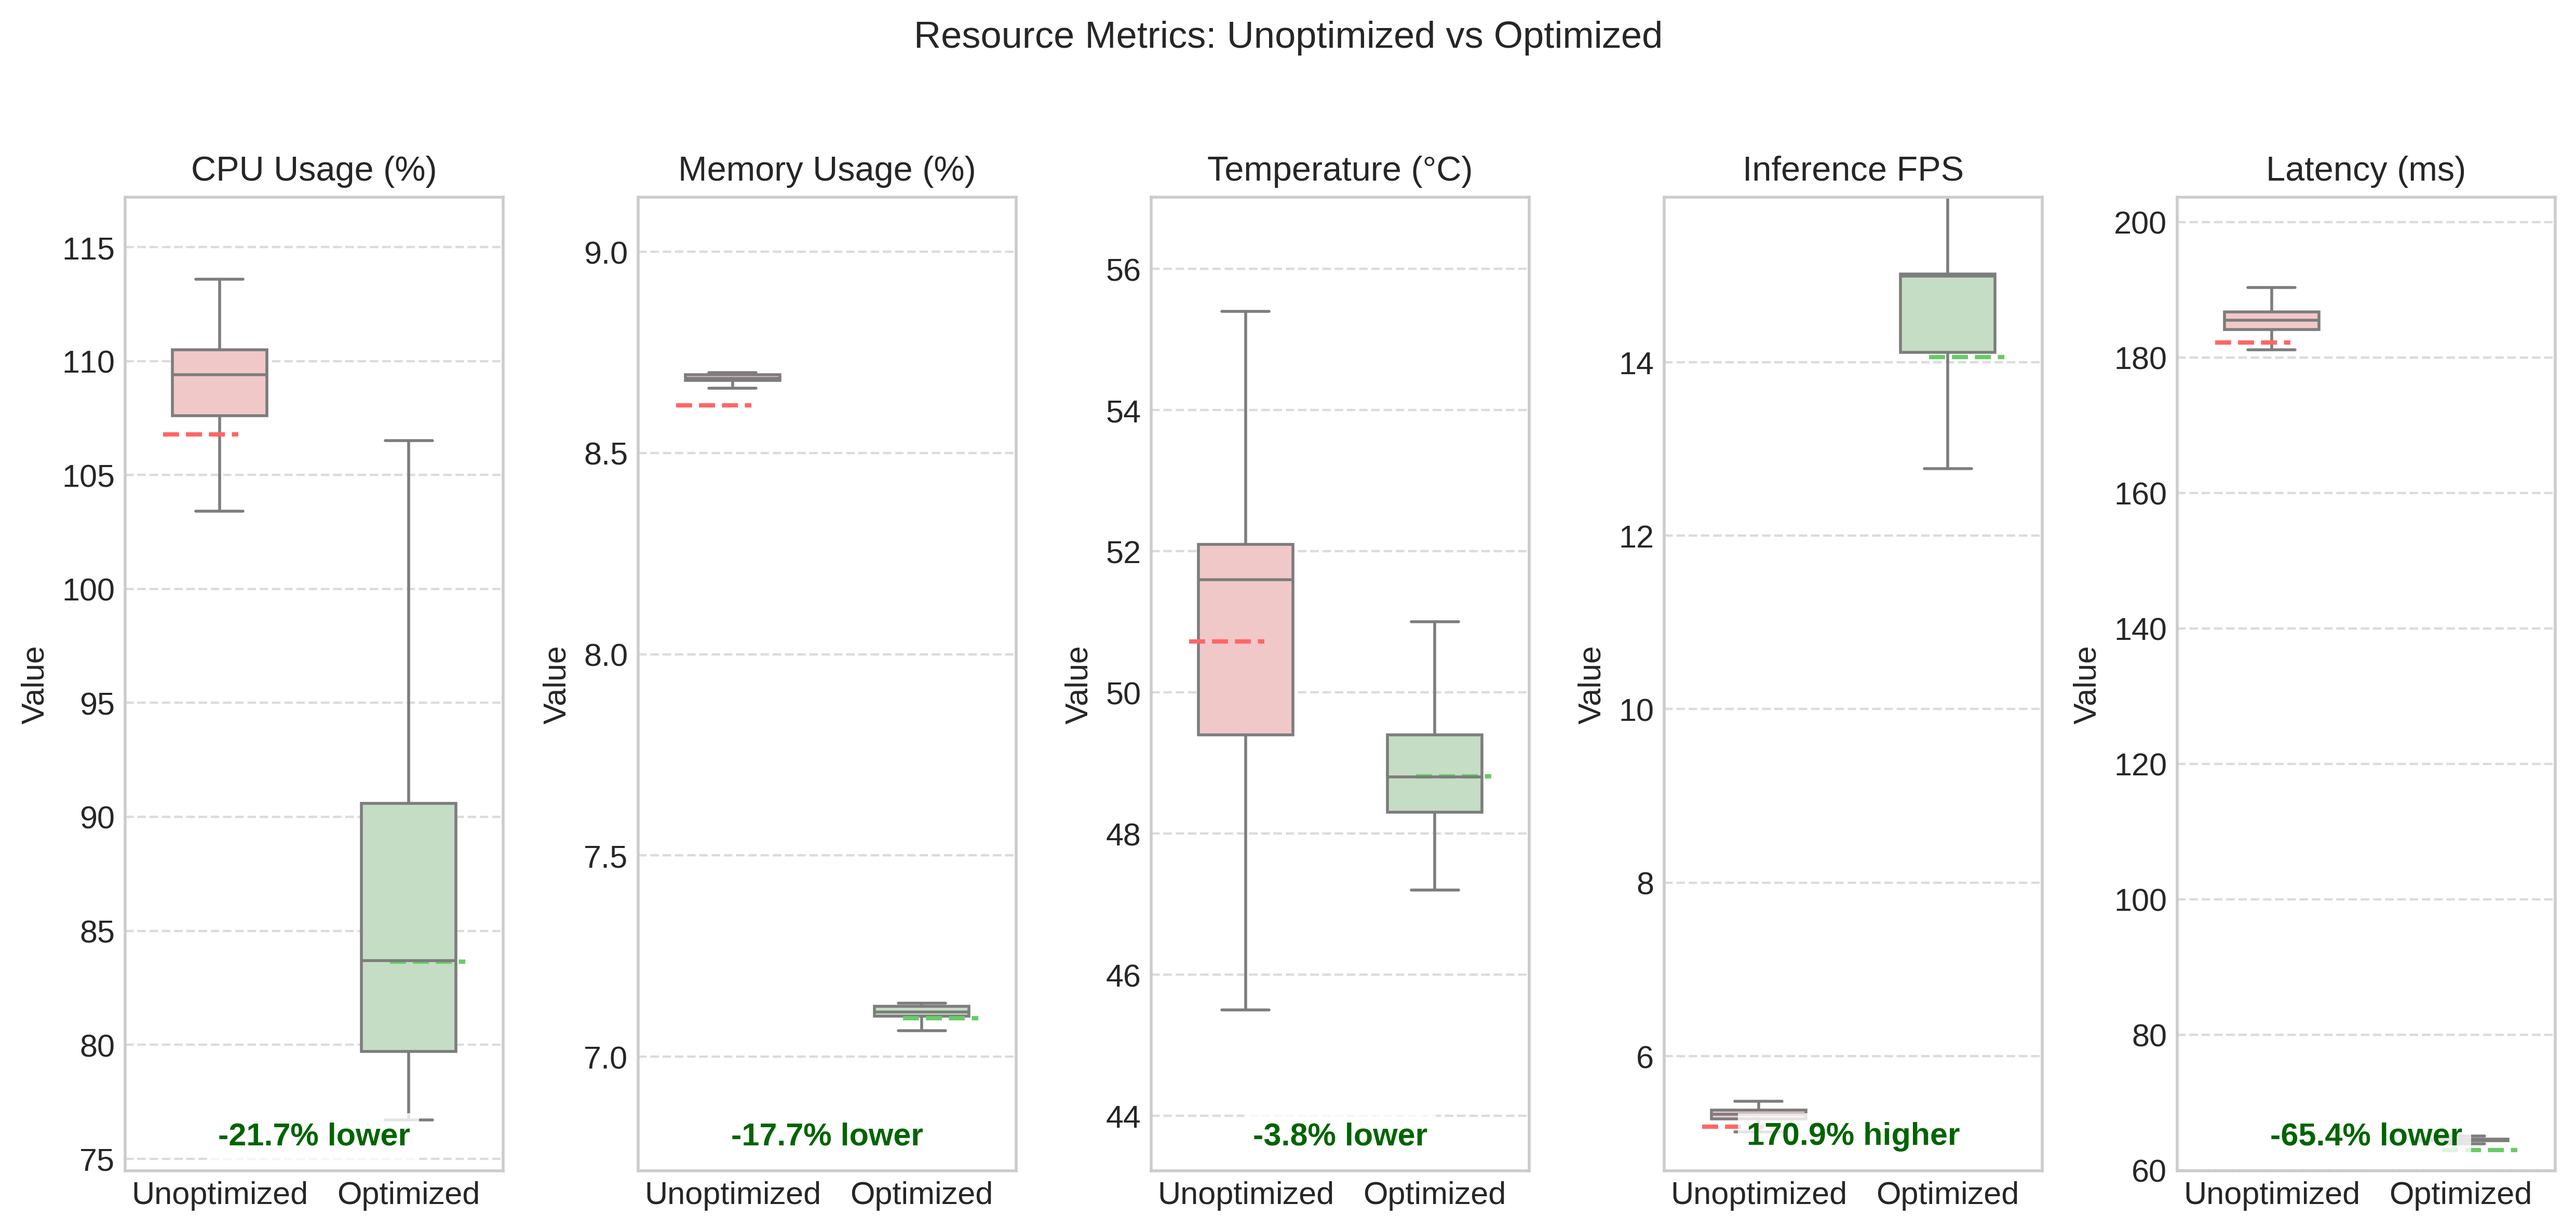
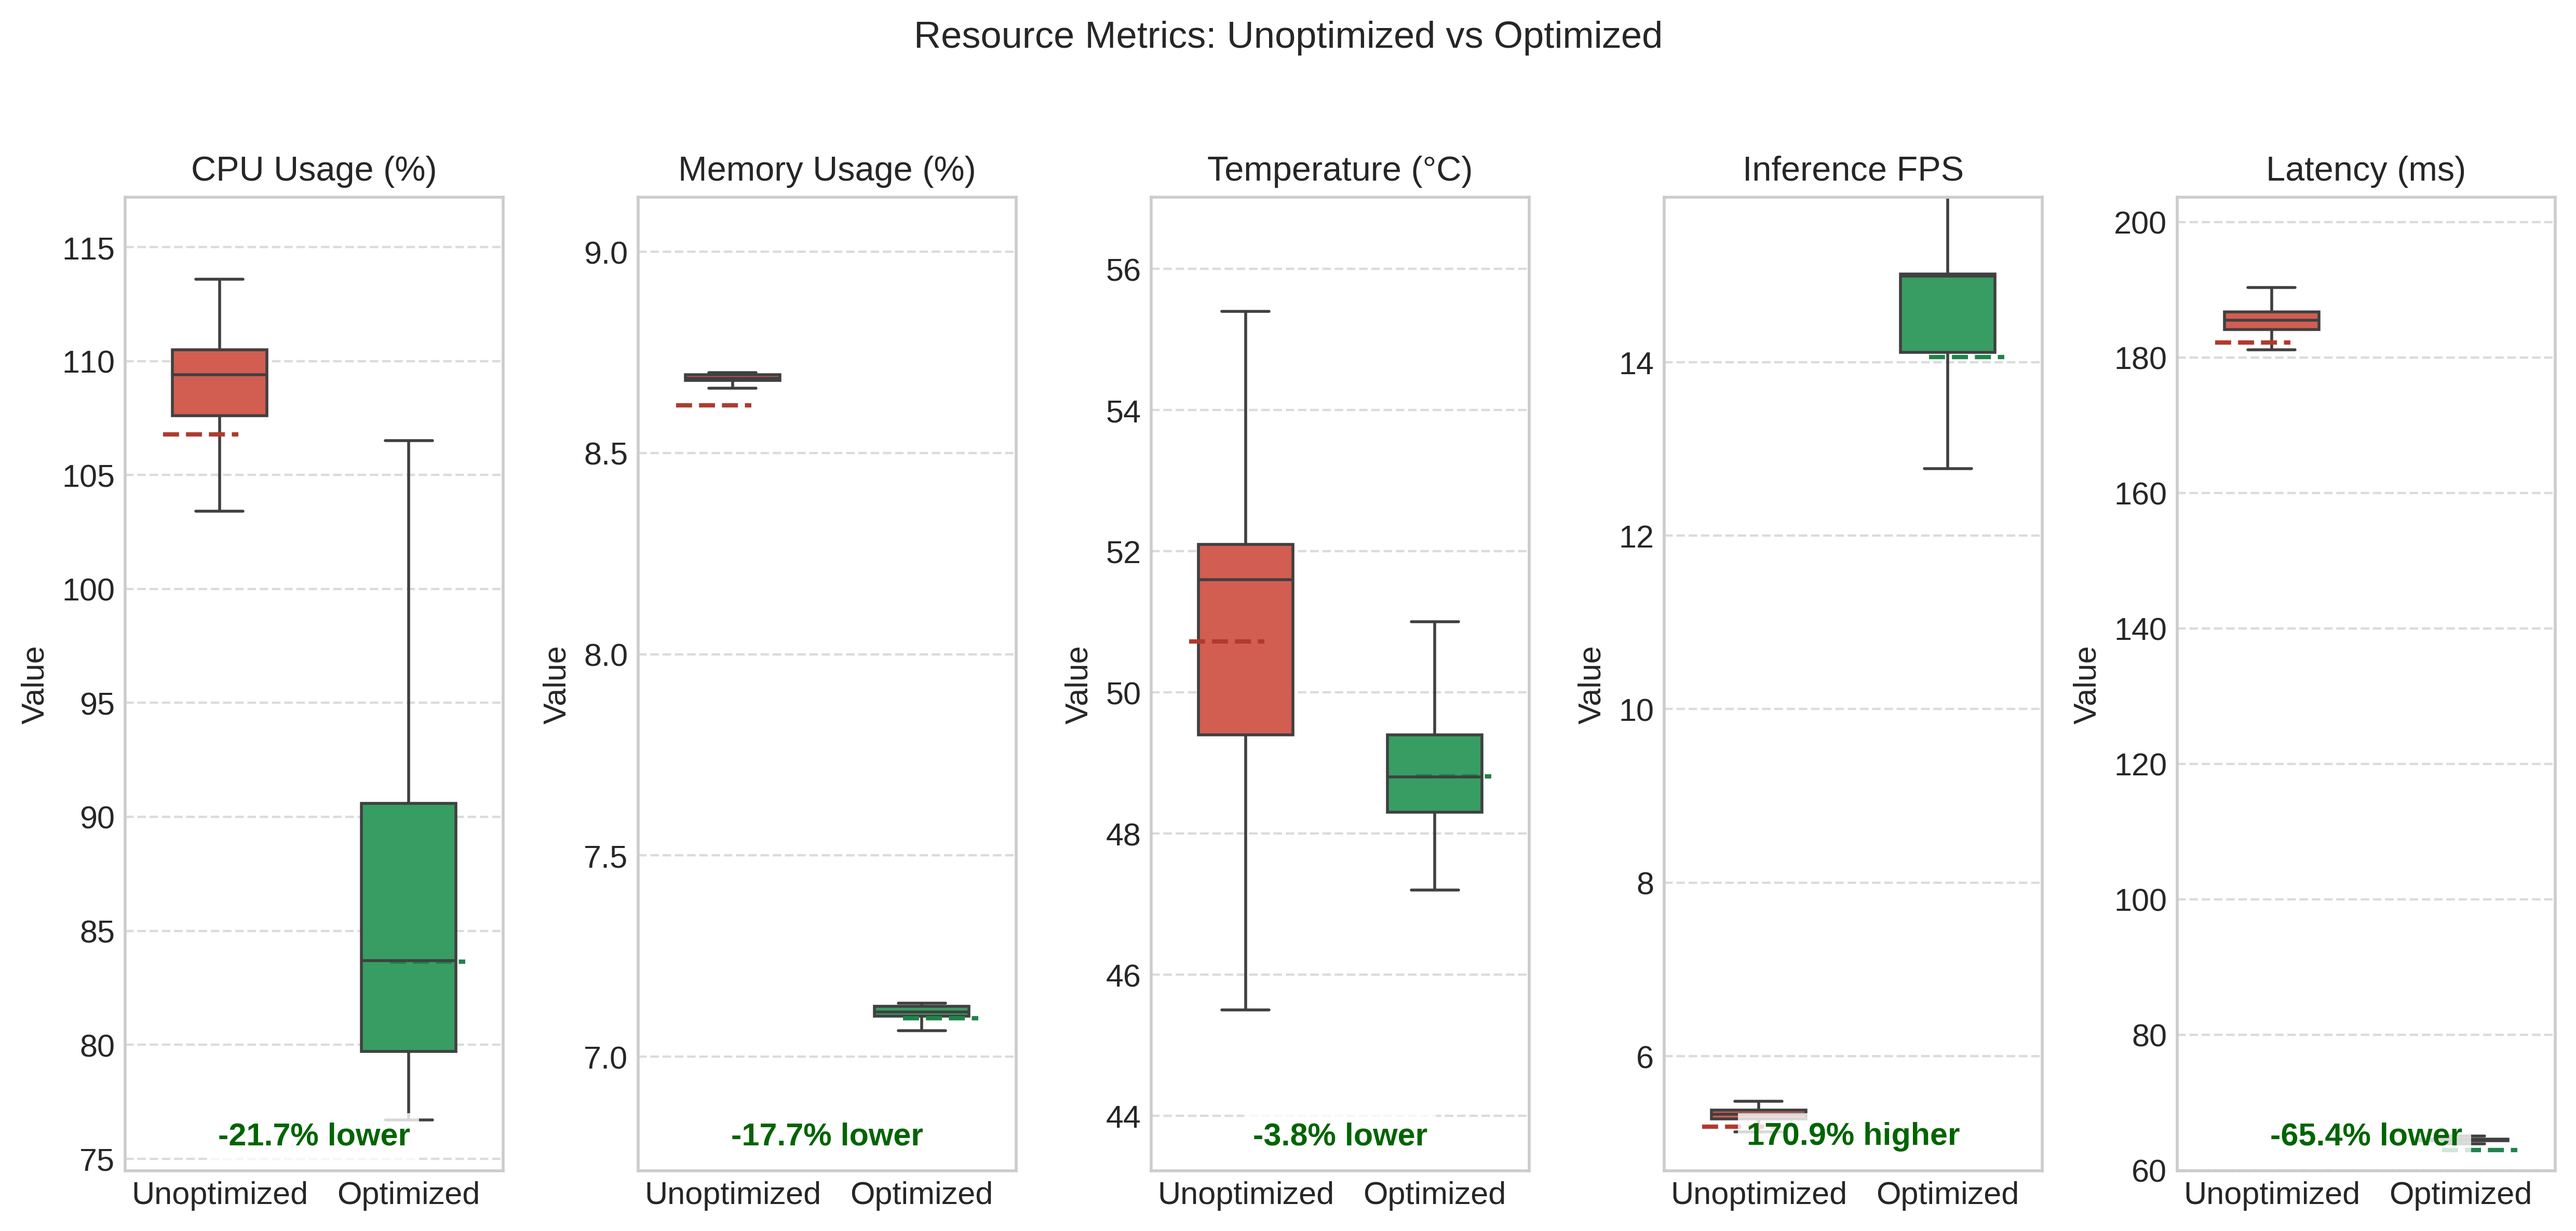
Commit before demo recording

diff --git a/backend/api/routes.py b/backend/api/routes.py
@@ -76,6 +76,18 @@ def video_feed_keypoints():
             if not success:
                 break
 
+            # Get frame dimensions for dynamic font sizing
+            height, width = frame.shape[:2]
+            
+            # Calculate dynamic font scale based on resolution
+            base_width = 640
+            base_font_scale = 0.7
+            font_scale = (width / base_width) * base_font_scale
+            font_scale = max(0.4, font_scale)  # Minimum size for readability
+            
+            # Calculate text thickness based on resolution
+            text_thickness = max(1, int(font_scale * 2.5))
+
             # Process the frame for keypoints
             keypoints, frame_with_keypoints = posture_detector.extract_keypoints(frame, posture_detector.pose)
 
@@ -130,7 +142,7 @@ def video_feed_keypoints():
                 # Add FPS and latency to the feedback text
                 feedback_text = f"Posture: {predicted_label} | FPS: {current_fps:.1f} | Latency: {avg_latency:.1f}ms"
                 cv2.putText(frame_with_keypoints, feedback_text, (10, 30),
-                            cv2.FONT_HERSHEY_SIMPLEX, 0.7, color, 2)
+                            cv2.FONT_HERSHEY_SIMPLEX, font_scale, color, text_thickness)
 
             # Encode the frame as JPEG and yield for streaming
             _, buffer = cv2.imencode('.jpg', frame_with_keypoints)
@@ -172,7 +184,19 @@ def video_feed_keypoints_multi():
             success, frame = video_manager.read_frame()
             if not success:
                 break
-
+            
+            # Get frame dimensions for dynamic font sizing
+            height, width = frame.shape[:2]
+                        
+            # Calculate dynamic font scale based on resolution
+            base_width = 640
+            base_font_scale = 0.7
+            font_scale = (width / base_width) * base_font_scale
+            font_scale = max(0.4, font_scale)  # Minimum size for readability
+                        
+            # Calculate text thickness based on resolution
+            text_thickness = max(1, int(font_scale * 2.5))
+            
             # Detect keypoints for multiple persons
             keypoints_list, frame_with_keypoints, bboxes = posture_detector.extract_keypoints_multi_person(frame, posture_detector.pose)
 
@@ -239,7 +263,7 @@ def video_feed_keypoints_multi():
 
                     # Draw feedback text on the frame
                     cv2.putText(frame_with_keypoints, feedback_text, (x_min, y_min - 40),
-                                cv2.FONT_HERSHEY_SIMPLEX, 0.7, color, 2)
+                    cv2.FONT_HERSHEY_SIMPLEX, font_scale, color, text_thickness)
                                 
             # Update FPS and latency metrics
             resource_monitor.update_fps()
@@ -252,7 +276,7 @@ def video_feed_keypoints_multi():
             
             # Add FPS and latency to the frame
             cv2.putText(frame_with_keypoints, f"FPS: {current_fps:.1f} | Latency: {avg_latency:.1f}ms", 
-                       (10, 30), cv2.FONT_HERSHEY_SIMPLEX, 0.7, (0, 165, 255), 2)
+            (10, 30), cv2.FONT_HERSHEY_SIMPLEX, font_scale, (0, 165, 255), text_thickness)
 
             # Encode the frame as JPEG
             _, buffer = cv2.imencode('.jpg', frame_with_keypoints)

diff --git a/experiments/resource_monitoring/plot_boxplot.py b/experiments/resource_monitoring/plot_boxplot.py
@@ -49,8 +49,8 @@ def plot_comparative_boxplots(unoptimized_csv, optimized_csv):
     fig, axes = plt.subplots(1, len(metrics), figsize=(2.5*len(metrics), 6))
     plt.suptitle('Resource Metrics: Unoptimized vs Optimized', fontsize=13, y=0.98)
     
-    # Define colors for optimization state - more pleasant pastel colors
-    palette = {'Unoptimized': '#f8c1c1', 'Optimized': '#c1e1c1'}  # Lighter pastel red and green
+    # Define darker, more striking colors for optimization state
+    palette = {'Unoptimized': '#E74C3C', 'Optimized': '#27AE60'}  # Striking red and green
     
     # Plot each metric
     for i, metric in enumerate(metrics):
@@ -116,9 +116,9 @@ def plot_comparative_boxplots(unoptimized_csv, optimized_csv):
                 fontsize=11,  # Larger font
                 bbox=dict(facecolor='white', alpha=0.8, edgecolor='none', pad=3))
         
-        # Add mean lines with labels
-        ax.axhline(unopt_mean, 0.1, 0.3, color='#FF6666', linestyle='--', linewidth=1.5)
-        ax.axhline(opt_mean, 0.7, 0.9, color='#66CC66', linestyle='--', linewidth=1.5)
+        # Add mean lines with labels in darker, more visible colors
+        ax.axhline(unopt_mean, 0.1, 0.3, color='#B03A2E', linestyle='--', linewidth=1.5)
+        ax.axhline(opt_mean, 0.7, 0.9, color='#1E8449', linestyle='--', linewidth=1.5)
         
         # Set clean x-tick labels with larger font
         ax.set_xticklabels(['Unoptimized', 'Optimized'], fontsize=11)
@@ -145,8 +145,8 @@ def plot_comparative_boxplots(unoptimized_csv, optimized_csv):
     plt.show()
 
 # Update these paths with your actual CSV file paths
-unoptimized_csv_path = "../../backend/logs/resource_stats_raspberry_20250412_052446.csv"
-optimized_csv_path = "../../backend/logs/resource_stats_raspberry_20250412_053534.csv"
+unoptimized_csv_path = "../../backend/logs/resource_stats_raspberry_20250419_083203.csv"
+optimized_csv_path = "../../backend/logs/resource_stats_raspberry_20250419_082121.csv"
 
 # Call the function to generate the comparative boxplots
 plot_comparative_boxplots(unoptimized_csv_path, optimized_csv_path)

diff --git a/backend/config/settings.py b/backend/config/settings.py
@@ -15,9 +15,9 @@ DEFAULT_HEIGHT = 1080
 DEFAULT_FRAME_RATE = 30
 
 # Raspberry Pi camera settings
-RASPBERRY_WIDTH = 640
-RASPBERRY_HEIGHT = 360
-RASPBERRY_FRAME_RATE = 15
+RASPBERRY_WIDTH = 854
+RASPBERRY_HEIGHT = 480
+RASPBERRY_FRAME_RATE = 20
 """
 1280 × 720 (HD)
 960 × 540 (qHD)
@@ -65,4 +65,5 @@ LAPTOP_IP = os.environ.get("LAPTOP_IP", "172.20.10.4")
 KAFKA_BROKER = f"{LAPTOP_IP}:9092"
 
 # Resource monitoring settings
-MONITORING_AUTO_STOP = False
+# If True, the resource monitoring will automatically stop after x minutes.
+MONITORING_AUTO_STOP = True

diff --git a/experiments/resource_monitoring/plot_line_chart.py b/experiments/resource_monitoring/plot_line_chart.py
@@ -104,7 +104,7 @@ def plot_resource_stats(csv_file):
 
 
 # Specify the path to your CSV file directly in the script
-csv_file_path = "../../backend/logs/resource_stats_raspberry_20250412_053534.csv"
+csv_file_path = "../../backend/logs/resource_stats_raspberry_20250419_091055.csv"
 
 # Call the function to generate the plot
 plot_resource_stats(csv_file_path)
